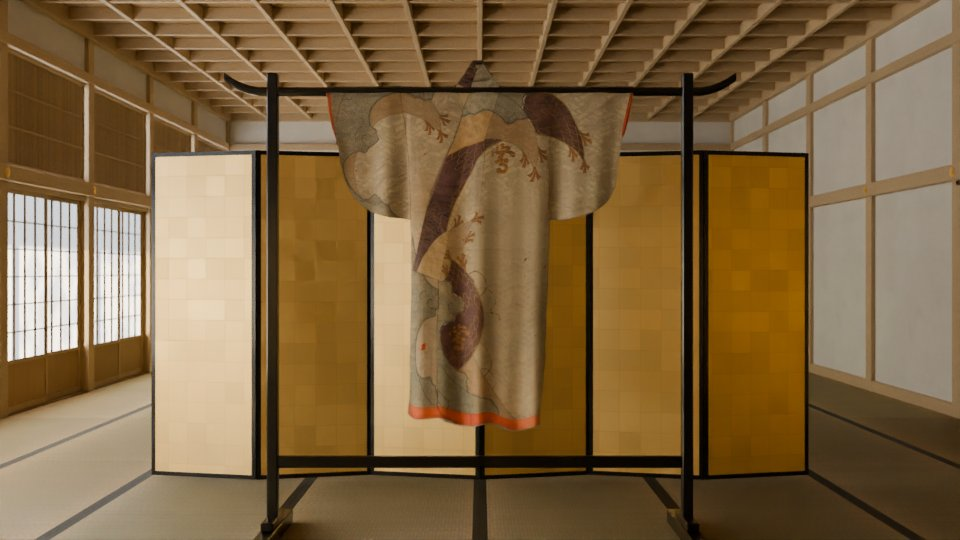
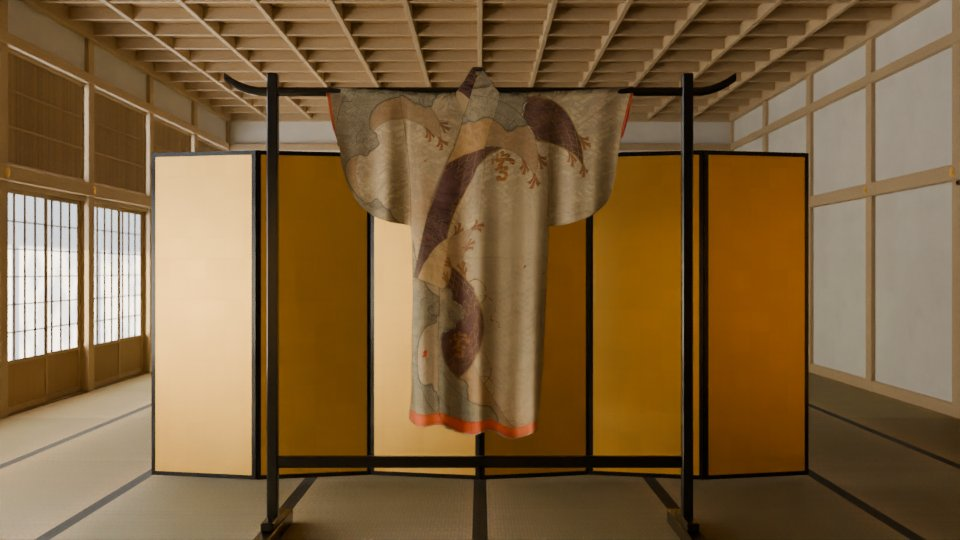
Slide-deck render bundle: gold leaf and drape fixes, full shot list, pod scripts
Claude-Session: https://claude.ai/code/session_01C9ca2LWJQecMpu4urwi2sH

Changed region(s): [[0.1562, 0.1185, 0.75, 0.8889], [0.4375, 0.5926, 0.5, 0.6222], [0.375, 0.2667, 0.4062, 0.2963]]

diff --git a/three_d/common.py b/three_d/common.py
@@ -1163,7 +1163,7 @@ def hall_material(kind, name=None, strength=None):
                    _math(nt, "SUBTRACT", rnd.outputs["Red"], 0.5))
         hy = _math(nt, "MULTIPLY", _math(nt, "SUBTRACT", fxy.outputs["Y"], 0.5),
                    _math(nt, "SUBTRACT", rnd.outputs["Green"], 0.5))
-        hgt = _math(nt, "MULTIPLY", _math(nt, "ADD", hx, hy), 0.0030)
+        hgt = _math(nt, "MULTIPLY", _math(nt, "ADD", hx, hy), 0.0011)
         nzw = N("ShaderNodeTexNoise")
         nzw.inputs["Scale"].default_value = 160.0
         nzw.inputs["Detail"].default_value = 2.0
@@ -1191,16 +1191,16 @@ def hall_material(kind, name=None, strength=None):
         wear.inputs["To Max"].default_value = 0.07
         L(nw.outputs["Fac"], wear.inputs["Value"])
         tone = N("ShaderNodeMapRange")
-        tone.inputs["To Min"].default_value = 0.90
+        tone.inputs["To Min"].default_value = 0.955
         tone.inputs["To Max"].default_value = 1.0
         L(rnd.outputs["Blue"], tone.inputs["Value"])
-        col = _mixc(nt, 1.0, (1.0, 0.74, 0.34), tone.outputs["Result"], "MULTIPLY")
-        col = _mixc(nt, _math(nt, "MULTIPLY", edge, 0.35), col, (0.86, 0.56, 0.20))
+        col = _mixc(nt, 1.0, (0.90, 0.58, 0.20), tone.outputs["Result"], "MULTIPLY")    # deep, warm leaf: stays gold when lit
+        col = _mixc(nt, _math(nt, "MULTIPLY", edge, 0.16), col, (0.80, 0.50, 0.16))
         col = _mixc(nt, wear.outputs["Result"], col, (0.42, 0.20, 0.08))
         L(col, bsdf.inputs["Base Color"])
-        L(_math(nt, "SUBTRACT", 1.0, _math(nt, "MULTIPLY", wear.outputs["Result"], 0.6)), bsdf.inputs["Metallic"])
-        rg = _math(nt, "ADD", _math(nt, "MULTIPLY_ADD", rnd.outputs["Red"], 0.10, 0.44),
-                   _math(nt, "ADD", _math(nt, "MULTIPLY", edge, 0.08), wear.outputs["Result"]))
+        L(_math(nt, "SUBTRACT", 1.0, _math(nt, "MULTIPLY", wear.outputs["Result"], 0.3)), bsdf.inputs["Metallic"])
+        rg = _math(nt, "ADD", _math(nt, "MULTIPLY_ADD", rnd.outputs["Red"], 0.035, 0.40),
+                   _math(nt, "ADD", _math(nt, "MULTIPLY", edge, 0.03), wear.outputs["Result"]))
         L(rg, bsdf.inputs["Roughness"])
 
     elif kind == "gilt":

diff --git a/three_d/scene.py b/three_d/scene.py
@@ -797,19 +797,23 @@ def build_robe(coll):
     sn = np.clip(sp / hem, 0, 1)
     body = np.abs(X) < 0.30
     ss = np.clip(sp / 0.49, 0, 1)                                # fraction of the sleeve drop
-    amp = np.where(body, 0.003 + 0.034 * sn ** 1.4, 0.003 + 0.020 * ss ** 1.3)
+    amp = np.where(body, 0.004 + 0.051 * sn ** 1.4, 0.004 + 0.030 * ss ** 1.2)       # fold depth, metres
     wander = 0.9 * np.sin(1.7 * sp)
     folds = (0.55 * np.sin(2 * np.pi * X / 0.215 + wander + 0.4) + 0.30 * np.sin(2 * np.pi * X / 0.128 + 1.3 + 0.6 * sp)
              + 0.15 * np.sin(2 * np.pi * X / 0.37 - 0.8))
     d = amp * folds + np.where(body, 0.014 * np.sin(np.pi * sn) * np.cos(np.pi * X / 0.62), 0.0)
     t_out = np.clip((np.abs(X) - 0.30) / 0.34, 0, 1)
-    Xc = X * (1.0 - np.where(body, 0.045 * sn ** 1.5, 0.02 * ss)) - np.sign(X) * 0.014 * t_out * ss
-    dz = -0.024 * t_out ** 2 * ss + np.where(body, 0.012 * np.sin(2 * np.pi * X / 0.215 + 0.4) * sn ** 3, 0.0)
+    Xc = X * (1.0 - np.where(body, 0.085 * sn ** 1.5, 0.03 * ss)) - np.sign(X) * 0.020 * t_out * ss   # hem pulls in
+    dz = -0.030 * t_out ** 2 * ss + np.where(body, 0.016 * np.sin(2 * np.pi * X / 0.215 + 0.4) * sn ** 3, 0.0)
+    # the shoulder line sags between the ends of the crossbar: held at the sleeve ends, lowest in the middle
+    sag = 0.032 * np.clip(1.0 - (np.abs(X) / (0.5 * ROBE_W)) ** 2, 0, 1)
+    dz = dz - sag
     zsh = BAR_Z + BAR_R + 0.002
     over = np.clip(-s, 0, None)                                  # the collar stands above the bar, leaning back
     k = np.clip(sp / 0.05, 0, 1)
     k = k * k * (3 - 2 * k)
-    Yw = -(0.004 + (BAR_R + 0.004) * k) - d * k + 0.20 * over
+    k2 = np.maximum(k, np.clip(sag / 0.010, 0, 1))     # where it sags, the cloth hangs in front of the bar
+    Yw = -(0.004 + (BAR_R + 0.004) * k2) - d * k + 0.20 * over
     Zw = zsh - sp + 0.97 * over + dz
     co = np.stack([Xc, Yw, Zw], -1).reshape(-1, 3)
     uv = np.stack([np.broadcast_to(px / ww, X.shape), 1.0 - PY / hh], -1).reshape(-1, 2)

diff --git a/three_d/pod_serve.py b/three_d/pod_serve.py
@@ -2,7 +2,7 @@
 """Serve build/ over HTTP under a secret path, so the frames can be fetched from the pod.
   POD_TOKEN=<random> python3 three_d/pod_serve.py [port]
   GET /<token>/status         -> last lines of the render logs and what exists
-  GET /<token>/seq.tar        -> the packed result (any file under build/ works)
+  GET /<token>/slides.tar     -> the packed result (any file under build/ works)
 Anything without the token gets 404."""
 import http.server, os, sys, pathlib, subprocess, urllib.parse
 
@@ -20,8 +20,10 @@ class H(http.server.SimpleHTTPRequestHandler):
         rel = path[len(TOKEN) + 2:]
         if rel == "status":
             out = []
-            n = len(list((ROOT / "frames").glob("f_*.png"))) if (ROOT / "frames").exists() else 0
-            out.append(f"frames: {n}  seq.tar: {(ROOT / 'seq.tar').exists()}")
+            n_st = len(list((ROOT / "stills").glob("*.png"))) if (ROOT / "stills").exists() else 0
+            n_cl = len(list((ROOT / "clips").glob("*/f_*.png"))) if (ROOT / "clips").exists() else 0
+            n_mp = len(list((ROOT / "clips").glob("*.mp4"))) if (ROOT / "clips").exists() else 0
+            out.append(f"stills: {n_st}  clip frames: {n_cl} of 900  mp4: {n_mp}  slides.tar: {(ROOT / 'slides.tar').exists()}")
             for name in ("pod.log", "render_gpu0.log", "render_gpu1.log", "render_gpu2.log", "render_gpu3.log", "render_clay.log"):
                 p = ROOT / name
                 if p.exists():

diff --git a/three_d/CREDITS.md b/three_d/CREDITS.md
@@ -6,7 +6,7 @@ The surfaces below use photo-scanned material maps and one photographed sky, all
 CC0 1.0 (public domain) by Poly Haven, https://polyhaven.com/license. Files are 2K, kept in
 `build/assets/` (git-ignored) and re-fetched by `python3 three_d/fetch_assets.py`.
 
-## Set 1: the hall (`scene.py`)
+## Set 1: the hall (`scene.py`, shots in `shots.py`)
 
 | Asset | Used for | Author(s) | Page | Licence |
 |---|---|---|---|---|
@@ -18,6 +18,12 @@ CC0 1.0 (public domain) by Poly Haven, https://polyhaven.com/license. Files are 
 | Ninomaru Teien (`ninomaru_teien_2k.hdr`, HDRI) | the garden seen through the open shoji | Greg Zaal | https://polyhaven.com/a/ninomaru_teien | CC0 |
 
 Download host: `https://dl.polyhaven.org/file/ph-assets/...` (exact URLs in `fetch_assets.py`).
+
+The robe on the iko is a museum photograph, not a model of ours: The Metropolitan Museum of Art,
+Robe (Kosode) with Fishing Net and Characters, Open Access (CC0), cut-out
+`site/assets/photos/met-76731-cut-1068.webp` (in the repository; the object's full record is with
+the site's photo credits). It is used as the albedo of a sheet of the robe's recorded size
+(153.4 x 127.6 cm) cut to the photograph's outline; the folds and the plain back are made in code.
 
 Made in code, no downloaded asset: gold leaf (leaf squares, overlaps, wear), black lacquer, gilt
 fittings, shoji paper and its daylight, the felt runner, the kimono textile design and the obi
